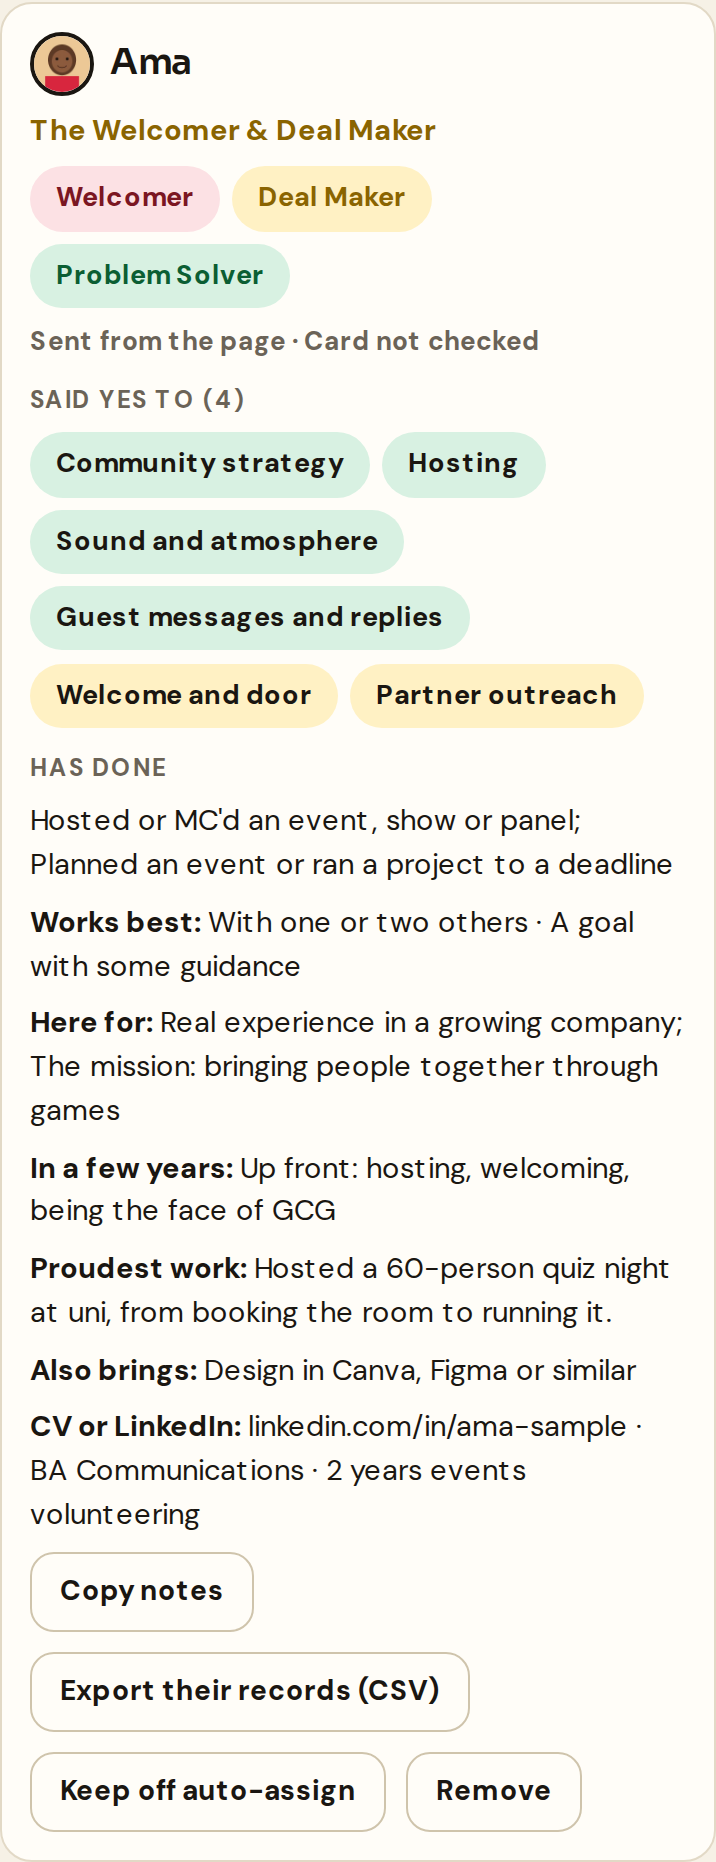
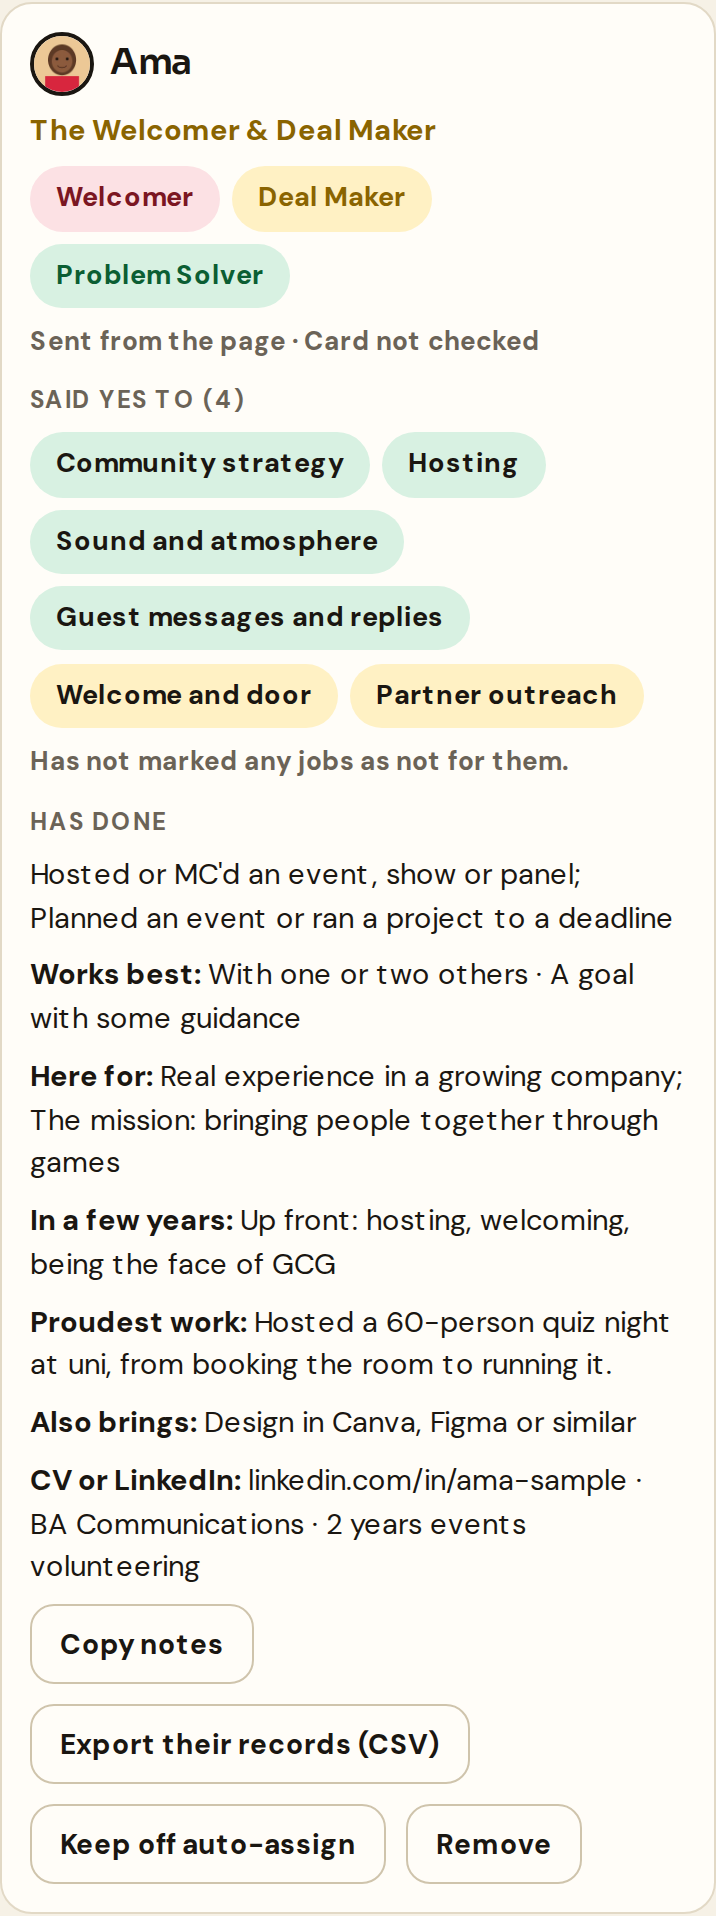
Me: private 'You, in short' summary with everything about you; 'Not for me' wording everywhere; Crew shows own card as the crew sees it; admin sees when no jobs are marked not for them
Claude-Session: https://claude.ai/code/session_01JE2q3PibkVT4seoSptK9bV

Changed region(s): [[0.0, 0.0, 0.9832, 1.0], [0.4302, 0.1557, 0.7682, 0.1869], [0.6145, 0.9345, 0.7682, 0.9656]]

diff --git a/gcg-game-plan.html b/gcg-game-plan.html
@@ -1428,7 +1428,7 @@ function profileOf(r){
   }
   var likes=maskLabels(LIKE,r.q&&r.q[NQ+1]).map(lc1);
   if(likes.length)L.push(likes.length>3?"You are drawn to many kinds of work, including "+likes.slice(0,3).join(", ")+".":"You lose track of time "+likes.join(" or ")+".");
-  if(low&&ts[low]<0.4)L.push("You would rather not spend your days on "+TRAIT_LABEL[low].toLowerCase()+", and that is useful to know.");
+  if(low&&ts[low]<0.4)L.push("In the situations, "+TRAIT_LABEL[low].toLowerCase()+" was the least like you. We will not lean on you for it unless you say so.");
   if(st.future&&st.future!=="unsure")L.push("In a few years you see yourself "+lc1(M_FUTURE[st.future].label)+".");
   return {title:"The "+a1[0]+" & "+a2[0],chips:top.map(function(t){return ARCH[t][0];}),top:top,
     stats:ks.slice(0,5).map(function(t){return {label:TRAIT_LABEL[t],v:ts[t]};}),lines:L};
@@ -1763,6 +1763,7 @@ var BUILD={
       var g=grouped(S),yes=g.top.concat(g.good);
       var hd=shell(card,"Jobs","Nice picks.",yes.length||g.curious.length?"Here is what you said yes and maybe to. Want to look at more?":"Nothing caught your eye yet. That is fine. Have a look at the full list, or carry on.");
       if(yes.length||g.curious.length)card.append(h("div",{class:"chips"},yes.map(function(i){return h("span",{class:"chip good",text:""+FN[i].name});}),g.curious.map(function(i){return h("span",{class:"chip curious",text:""+FN[i].name});})));
+      card.append(g.no.length?h("div",null,h("p",{class:"lab",text:"Not for me"}),h("div",{class:"chips"},g.no.map(function(i){return h("span",{class:"chip no",text:""+FN[i].name});}))):h("p",{class:"sub",text:"No jobs that are not for you? That is fine. You can mark some any time under Me, and Hinda will see them on your profile."}));
       card.append(h("button",{type:"button",class:"btn",text:"See all "+FNS.filter(function(f){return f.when!=="Later";}).length+" jobs (optional)",onclick:function(){S.returnTo="deck";go("all");}}));
       navRow(card,"Reveal my card ",function(){
         if(answeredAsk(S.q)<ASK.length){var k=ASK.findIndex(function(n){return !decodeA(S.q[n]);});go("s"+k);setTimeout(function(){warn("One situation still needs an answer.");},50);return;}
@@ -1986,7 +1987,7 @@ function summaryBlocks(){
   }
   cvOf(p,prof).forEach(function(s){B.push({t:"h",text:s[0]});s[1].forEach(function(x){B.push({t:"li",text:x});});});
   function grp(title,ids){if(!ids.length)return;B.push({t:"h",text:title});ids.forEach(function(i){B.push({t:"li",text:FN[i].name+": "+FN[i].covers});});}
-  grp("Jobs I said yes to",g.top.concat(g.good));grp("Jobs I might try",g.curious);grp("Jobs I would rather not do",g.no);
+  grp("Jobs I said yes to",g.top.concat(g.good));grp("Jobs I might try",g.curious);grp("Jobs that are not for me",g.no);
   var st=sanitizeStory(p.story);
   if(st.why.length){B.push({t:"h",text:"Why I am here"});labels(M_WHY,st.why).forEach(function(x){B.push({t:"li",text:x});});}
   if(st.future){B.push({t:"h",text:"In a few years"});B.push({t:"p",text:M_FUTURE[st.future].label});}
@@ -2086,7 +2087,7 @@ function renderPeople(){
       h("p",{class:"lab",text:"Said yes to ("+yes.length+")"}),
       yes.length?h("div",{class:"chips"},yes.map(function(i){return h("span",{class:"chip good",text:FN[i].name});})):h("p",{class:"meta",text:"None."}),
       (p.curious&&p.curious.length)?h("div",{class:"chips"},p.curious.map(function(i){return h("span",{class:"chip curious",text:FN[i].name});})):null,
-      (p.no&&p.no.length)?h("p",{class:"meta",text:"Not for them: "+listText(p.no)}):null,
+      (p.no&&p.no.length)?h("p",{class:"meta",text:"Not for them: "+listText(p.no)}):h("p",{class:"meta",text:"Has not marked any jobs as not for them."}),
       done.length?h("p",{class:"lab",text:"Has done"}):null,done.length?h("p",{text:done.join("; ")}):null,
       sl.map(function(l){return h("p",null,h("b",{text:l[0]+": "}),l[1]);}),
       p.extra?h("p",null,h("b",{text:"Also good at: "}),p.extra):null,
@@ -4292,6 +4293,19 @@ function drawMe(root){
   var miss=EXTRA.filter(extraMissing).length;
   if(miss)root.append(h("button",{type:"button",class:"banner",onclick:startExtra},"Finish your profile: "+miss+" quick question"+(miss>1?"s":"")+" ›"));
   root.append(h("details",{class:"more msec",open:S.panel["me-share"]?true:null,ontoggle:function(e){S.panel["me-share"]=e.currentTarget.open;}},h("summary",{text:"Who sees what"}),shareToggles(function(){saveResponse();})));
+  // Your summary: everything about you, in plain words. This is for you. The crew only sees what you chose to share (see Crew).
+  (function(){
+    var like=yes.concat(g.curious).map(function(i){return FN[i].name;}),no=g.no.map(function(i){return FN[i].name;}),ws=workStyle(st);
+    var done=maskLabels(EXP,p.q[NQ]),brings=labels(M_HIDDEN,st.hidden).concat(st.hiddenNote?[st.hiddenNote]:[]);
+    function line(label,val){return val?h("p",null,h("b",{text:label+": "}),val):null;}
+    root.append(h("section",{class:"card msec summary"},h("h3",{class:"msec-h",text:"You, in short"}),h("p",{class:"sub",text:"This is for you. Hinda sees your answers too. The crew only sees what you chose to share, and you can check that under Crew."}),
+      prof.lines.map(function(l){return h("p",{text:l});}),
+      line("Jobs you like",like.length?like.join(", "):"Nothing picked yet"),
+      line("Jobs that are not for you",no.length?no.join(", "):"None marked. You can add some below."),
+      line("How you work best",ws),line("Why you are here",st.why.length?labels(M_WHY,st.why).join("; "):""),line("Where you see yourself",st.future?M_FUTURE[st.future].label:""),
+      line("What you have done",done.length?done.join("; "):""),line("What you bring",brings.join("; ")),line("Proudest work",st.proud),line("CV or link",clean(p.cv)),
+      h("div",{class:"stats"},prof.stats.map(function(x){return h("div",{class:"stat"},h("span",{text:x.label}),h("span",{class:"bar light","aria-hidden":"true"},h("i",{style:"width:"+Math.round(x.v*100)+"%"})));}))));
+  })();
   root.append(appearanceBox());
   // title
   root.append(h("section",{class:"msec"},h("h3",{class:"msec-h",text:"My title"}),
@@ -4304,13 +4318,17 @@ function drawMe(root){
   var picker=null;
   if(S.panel.lvl&&FN[S.panel.lvl]){var cur=S.levels[S.panel.lvl];
     picker=h("div",{class:"box lvlpick"},h("b",{text:FN[S.panel.lvl].name}),h("p",{class:"sub",text:FN[S.panel.lvl].covers}),
-      h("div",{class:"seg3"},[["good","Up for it"],["curious","Would try"],["no","Rather not"]].map(function(o){
+      h("div",{class:"seg3"},[["good","I like it"],["curious","I might try"],["no","Not for me"]].map(function(o){
         return h("button",{type:"button",class:"sb","data-c":o[0]==="no"?"no":"yes","aria-pressed":String(cur===o[0]),text:o[1],onclick:function(){S.levels[S.panel.lvl]=o[0];S.panel.lvl="";saveDraft();saveResponse();renderProfile();}});})));
   }
   root.append(h("section",{class:"msec"},h("h3",{class:"msec-h",text:"What I like and don't"}),h("p",{class:"sub",text:"Tap any job to change your answer."}),
-    yes.length?h("p",{class:"lab",text:"Up for"}):null,yes.length?jobChips(yes,"good"):null,
-    g.curious.length?h("p",{class:"lab",text:"Would try"}):null,g.curious.length?jobChips(g.curious,"curious"):null,
-    g.no.length?h("p",{class:"lab",text:"Rather not"}):null,g.no.length?jobChips(g.no,"no"):null,picker,
+    yes.length?h("p",{class:"lab",text:"Jobs I like"}):null,yes.length?jobChips(yes,"good"):null,
+    g.curious.length?h("p",{class:"lab",text:"Jobs I might try"}):null,g.curious.length?jobChips(g.curious,"curious"):null,
+    h("p",{class:"lab",text:"Jobs that are not for me"}),g.no.length?jobChips(g.no,"no"):h("p",{class:"sub",text:"None marked yet. If some jobs are not for you, mark them below so we never offer them to you."}),
+    h("details",{class:"more",open:S.panel.avoidOpen?true:null,ontoggle:function(e){S.panel.avoidOpen=e.currentTarget.open;}},h("summary",{text:"Mark a job as not for me"}),
+      AREAS.map(function(A){var js=FNS.filter(function(f){return f.area===A.id&&S.levels[f.id]!=="no";});if(!js.length)return null;
+        return h("div",null,h("p",{class:"lab",text:A.short}),h("div",{class:"chips"},js.map(function(f){return h("button",{type:"button",class:"chip",text:f.name,onclick:function(){S.levels[f.id]="no";saveDraft();saveResponse();renderProfile();}});})));})),
+    picker,
     workStyle(st)?h("p",{class:"sub",text:"Works best: "+workStyle(st)}):null));
   // the GCG trail: everything you've helped make happen
   var byEv={};hist.forEach(function(x){(byEv[x.ev.id]=byEv[x.ev.id]||{ev:x.ev,ts:[]}).ts.push(x.t.title);});
@@ -4321,17 +4339,14 @@ function drawMe(root){
       :h("p",{class:"sub",text:"Everything you finish is recorded here, event by event, so your contribution is seen and remembered."})));
   // about + CV, quieter
   var cv=cvOf(p,prof),cvSt=h("p",{class:"status",role:"status","aria-live":"polite"});
-  root.append(h("details",{class:"more msec",open:S.panel["me-about"]?true:null,ontoggle:function(e){S.panel["me-about"]=e.currentTarget.open;}},h("summary",{text:"About me"}),prof.lines.map(function(l){return h("p",{text:l});}),
-      st.proud?h("p",null,h("b",{text:"Proudest work: "}),st.proud):null,
-      h("div",{class:"stats"},prof.stats.map(function(s){return h("div",{class:"stat"},h("span",{text:s.label}),h("span",{class:"bar light","aria-hidden":"true"},h("i",{style:"width:"+Math.round(s.v*100)+"%"})));}))),
-    h("details",{class:"more msec",open:S.panel["me-cv"]?true:null,ontoggle:function(e){S.panel["me-cv"]=e.currentTarget.open;}},h("summary",{text:"Strengths for my CV"}),
+  root.append(h("details",{class:"more msec",open:S.panel["me-cv"]?true:null,ontoggle:function(e){S.panel["me-cv"]=e.currentTarget.open;}},h("summary",{text:"Strengths for my CV"}),
       cv.map(function(s){return h("div",{class:"cvsec"},h("h4",{text:s[0]}),h("ul",null,s[1].map(function(x){return h("li",{text:x});})));}),
       h("button",{type:"button",class:"btn small",text:"Copy for my CV",onclick:function(){copyText(cvText(cv),cvSt,"Copied. Paste it into your CV or LinkedIn.");}}),cvSt),
     h("div",{class:"row",style:"margin-top:12px"},h("button",{type:"button",class:"btn link",text:"Update my answers",onclick:function(){S.screen="like";showView("flow");}})));
 }
 
 /* ---------- Sharing: everyone's About is visible to the crew; the rest is each person's choice ---------- */
-// Never shareable: jobs you'd rather not do, why you are here, card corrections. Those stay between you and Hinda.
+// Never shareable: jobs that are not for you, why you are here, card corrections. Those stay between you and Hinda.
 var SHARE_OPTS=[["up","","Jobs I'm up for"],["did","","What I've done"],["brings","","What I bring"],["proud","","My proudest work"],["works","","How I work best"],["cv","","My CV or link"]];
 S.share={up:false,did:false,brings:false,proud:false,works:false,cv:false};S.crew={};
 function sanitizeShare(s){var o={};SHARE_OPTS.forEach(function(x){o[x[0]]=!!(s&&s[x[0]]);});return o;}
@@ -4362,7 +4377,7 @@ function shareToggles(onChange){
       h("span",{class:"shr-e","aria-hidden":"true",text:o[1]}),h("span",{class:"shr-t"},h("b",{text:o[2]})),h("span",{class:"pill","data-s":on?"taken":"draft",text:on?"Shared":"Private"}));
     box.append(b);
   });
-  box.append(h("p",{class:"sub",text:"Always private, whatever you choose: jobs you'd rather not do, why you're here, and your card corrections. Only you and Hinda see those."}));
+  box.append(h("p",{class:"sub",text:"Always private, whatever you choose: jobs that are not for you, why you're here, and your card corrections. Only you and Hinda see those."}));
   return box;
 }
 
@@ -4389,6 +4404,7 @@ function drawCrew(root){
         h("span",{class:"sub",text:c.type||""})),
       h("span",{class:"chev","aria-hidden":"true",text:open?"−":"+"}));
     var card=h("section",{class:"card crewcard"},head);
+    if(id===S.uid)card.append(h("p",{class:"sub",text:"This is how the crew sees you. Everything about you is under Me. Change what is shared in Me, Who sees what."}));
     if(open){
       card.append(h("div",{class:"chips"},(c.strengths||[]).map(function(s,i){return h("span",{class:"chip t"+i,text:s});})));
       function sec(label,val){return val&&(!Array.isArray(val)||val.length)?h("div",{class:"crewsec"},h("p",{class:"lab",text:label}),Array.isArray(val)?h("div",{class:"chips"},val.map(function(v){return h("span",{class:"chip",text:v});})):h("p",{text:val})):null;}
